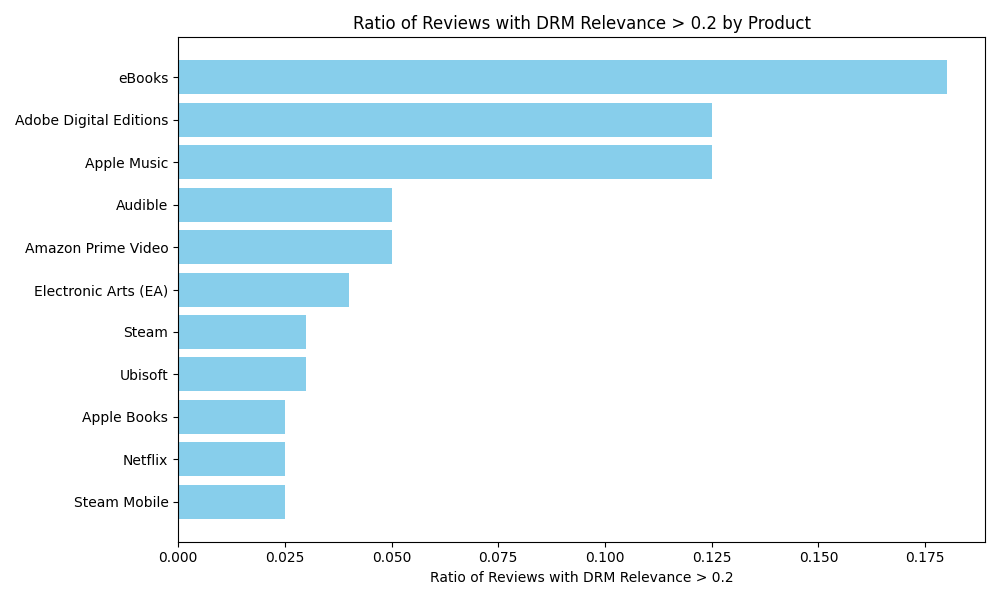
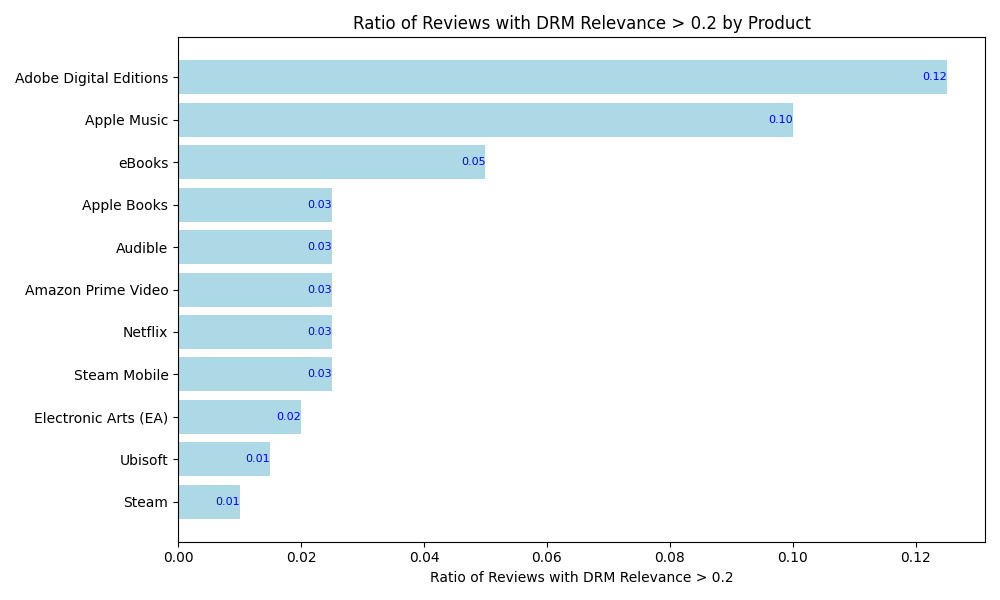
Add lower rated reviews mentioning DRM

diff --git a/graphing/review_plotter.py b/graphing/review_plotter.py
@@ -165,30 +165,69 @@ def plot_drm_relevance_by_rating_band(filename: str):
     plt.tight_layout()
     plt.savefig(output_dir + '/drm_relevance_distribution_by_rating_band.png')
 
-def calculate_drm_relevance_ratio(reviews_data: dict, relevance_threshold: float = 0.2) -> dict:
+def calculate_drm_relevance_ratio(reviews_data: dict, relevance_threshold: float = 0.2, rating_threshold: float = 1.0) -> dict:
     product_ratios = {}
     for product, reviews in reviews_data.items():
         total_reviews = len(reviews)
-        relevant_reviews = sum(1 for review in reviews if float(review.get('drm_relevance', 0)) > relevance_threshold)
+        # Filter reviews based on rating threshold, handling None values explicitly
+        low_rating_reviews = [review for review in reviews if review['rating'] is not None and float(review['rating']) < rating_threshold]
+        relevant_reviews = sum(1 for review in low_rating_reviews if review['drm_relevance'] is not None and float(review['drm_relevance']) > relevance_threshold)
+        # Calculate the ratio based on the count of low rating reviews
         ratio = relevant_reviews / total_reviews if total_reviews > 0 else 0
         product_ratios[product] = ratio
     return product_ratios
 
 def plot_drm_relevance_ratio(filename):
-    threshold = 0.2
-    reviews = load_reviews_with_drm_relevance(filename)
-    product_ratios = calculate_drm_relevance_ratio(reviews, threshold)
-    sorted_ratios = {k: v for k, v in sorted(product_ratios.items(), key=lambda item: item[1], reverse=True)}
-    products = list(sorted_ratios.keys())
-    ratios = list(sorted_ratios.values())
+    threshold = 0.2  # This is the relevance threshold for DRM
+    reviews_data = load_reviews_with_drm_relevance(filename)
+    product_ratios = calculate_drm_relevance_ratio(reviews_data, threshold, 1.0)
+
+    # Sort products by ratio of reviews mentioning DRM
+    sorted_products = sorted(product_ratios.items(), key=lambda x: x[1], reverse=True)
+
+    # Prepare data for plotting
+    products, ratios = zip(*sorted_products)
 
     plt.figure(figsize=(10, 6))
-    plt.barh(products, ratios, color='skyblue')
+    bars = plt.barh(products, ratios, color='lightblue')
     plt.xlabel(f'Ratio of Reviews with DRM Relevance > {threshold}')
     plt.title(f'Ratio of Reviews with DRM Relevance > {threshold} by Product')
-    plt.gca().invert_yaxis()  # Invert y-axis to display highest ratio at the top
+    plt.gca().invert_yaxis()
+
+    # Annotate the bars with the ratio values
+    for bar in bars:
+        plt.text(bar.get_width(), bar.get_y() + bar.get_height() / 2, f'{bar.get_width():.2f}',
+                 va='center', ha='right', color='blue', fontsize=8)
+
     plt.tight_layout()
-    plt.savefig(output_dir + '/drm_relevance_ratio_by_product.png')
+    plt.savefig(f'{output_dir}/drm_relevance_ratio_by_product.png')
+
+def plot_negative_reviews_with_drm_relevance(filename: str):
+    relevance_threshold = 0.2  # Threshold for considering a review relevant to DRM
+    rating_threshold = 0.5  # Threshold for considering a review as negative
+
+    reviews_data = load_reviews_with_drm_relevance(filename)
+    product_ratios = calculate_drm_relevance_ratio(reviews_data, relevance_threshold, rating_threshold)
+
+    # Sort products by ratio of negative reviews mentioning DRM
+    sorted_products = sorted(product_ratios.items(), key=lambda x: x[1], reverse=True)
+
+    # Prepare data for plotting
+    products, ratios = zip(*sorted_products)
+
+    plt.figure(figsize=(10, 6))
+    bars = plt.barh(products, ratios, color='salmon')
+    plt.xlabel(f'Ratio of Negative Reviews (Rating < {rating_threshold}) Mentioning DRM > {relevance_threshold}')
+    plt.title(f'Ratio of Negative Reviews Mentioning DRM by Product')
+    plt.gca().invert_yaxis()
+
+    # Annotate the bars with the ratio values
+    for bar in bars:
+        plt.text(bar.get_width(), bar.get_y() + bar.get_height() / 2, f'{bar.get_width():.2f}',
+                 va='center', ha='right', color='blue', fontsize=8)
+
+    plt.tight_layout()
+    plt.savefig(f'{output_dir}/negative_reviews_with_drm_relevance.png')
 
 def generate_plots(filename):
     plot_reviews_with_drm_relevance(filename)
@@ -196,3 +235,4 @@ def generate_plots(filename):
     plot_drm_relevance_vs_rating(filename)
     plot_drm_relevance_by_rating_band(filename)
     plot_drm_relevance_ratio(filename)
+    plot_negative_reviews_with_drm_relevance(filename)
